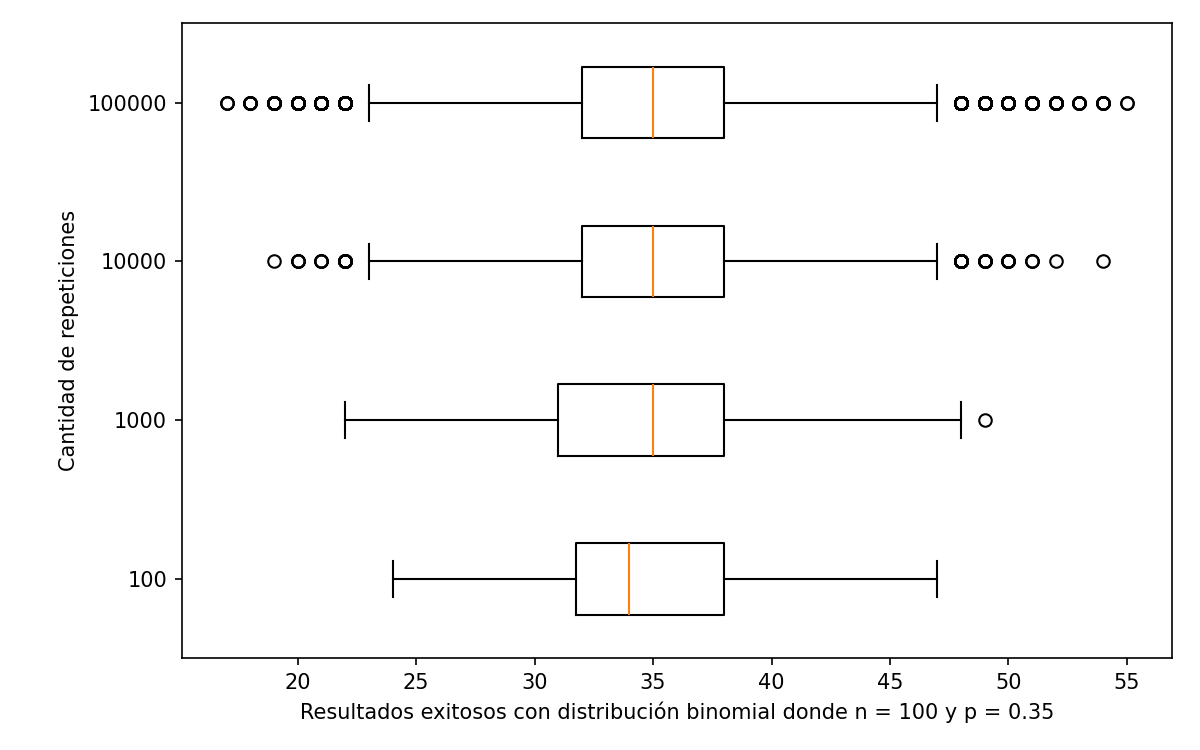
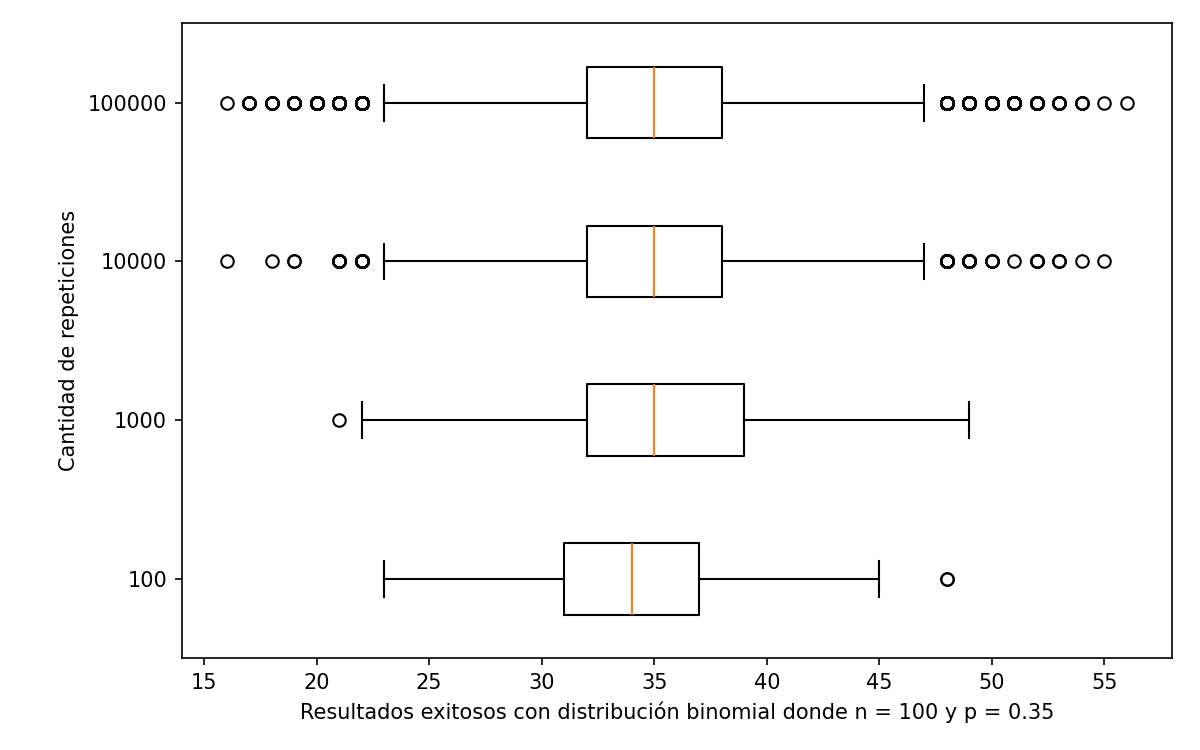
V1.1

diff --git a/main.py b/main.py
@@ -1,7 +1,6 @@
 from scipy.stats import binom
 import matplotlib.pyplot as plt
 import statistics as stat
-import numpy as np
 import funciones as f
 
 def generar_histograma_binomial(array):
@@ -13,17 +12,16 @@ def generar_histograma_binomial(array):
     plt.savefig(f"histograma_binomial_{len(array)}", dpi=150)
     plt.close()
 
+# BINOMIAL
+# a-) Genero muestras
 bin100 = binom.rvs(100, 0.35, size = 100)
-bin100.sort()
 bin1000 = binom.rvs(100, 0.35, size = 1000)
-bin1000.sort()
 bin10000 = binom.rvs(100, 0.35, size = 10000)
-bin10000.sort()
 bin100000 = binom.rvs(100, 0.35, size = 100000)
-bin100000.sort()
 
 data = [bin100, bin1000, bin10000, bin100000]
 
+# b-) Genero diagrama de caja
 plt.boxplot(data, vert=False, tick_labels=['100', '1000', '10000', '100000'])
 plt.ylabel("Cantidad de repeticiones")
 plt.xlabel("Resultados exitosos con distribución binomial donde n = 100 y p = 0.35")
@@ -32,12 +30,28 @@ plt.gcf().set_size_inches(8, 5)
 plt.savefig("diagrama_caja_binomial", dpi=150)
 plt.close()
 
+# c-) Genero histogramas
 generar_histograma_binomial(bin100)
 generar_histograma_binomial(bin1000)
 generar_histograma_binomial(bin10000)
 generar_histograma_binomial(bin100000)
 
-print(f"Media de las 100 muestras con distribición binomial: {np.mean(bin100)}")
-print(f"Media de las 1000 muestras con distribición binomial: {np.mean(bin1000)}")
-print(f"Media de las 10000 muestras con distribición binomial: {np.mean(bin10000)}")
-print(f"Media de las 100000 muestras con distribición binomial: {np.mean(bin100000)}")
+
+# d-) Calculo mediana y la moda
+print(f"Mediana de las 100 muestras con distribición binomial: {stat.median(bin100)}")
+print(f"Mediana de las 1000 muestras con distribición binomial: {stat.median(bin1000)}")
+print(f"Mediana de las 10000 muestras con distribición binomial: {stat.median(bin10000)}")
+print(f"Mediana de las 100000 muestras con distribición binomial: {stat.median(bin100000)}")
+
+print(f"Moda de las 100 muestras con distribición binomial: {stat.mode(bin100)}")
+print(f"Moda de las 1000 muestras con distribición binomial: {stat.mode(bin1000)}")
+print(f"Moda de las 10000 muestras con distribición binomial: {stat.mode(bin10000)}")
+print(f"Moda de las 100000 muestras con distribición binomial: {stat.mode(bin100000)}")
+
+# e-) Calculo media
+print(f"Media de las 100 muestras con distribición binomial: {stat.mean(bin100)}")
+print(f"Media de las 1000 muestras con distribición binomial: {stat.mean(bin1000)}")
+print(f"Media de las 10000 muestras con distribición binomial: {stat.mean(bin10000)}")
+print(f"Media de las 100000 muestras con distribición binomial: {stat.mean(bin100000)}")
+
+

diff --git a/funciones.py b/funciones.py
@@ -17,6 +17,7 @@ def calcular_moda(array):
     if len(array) == 1:
         return [array[0]]
     max = 0
+    array.sort()
     current = 0
     results = []
     for i in range(len(array) - 1):
